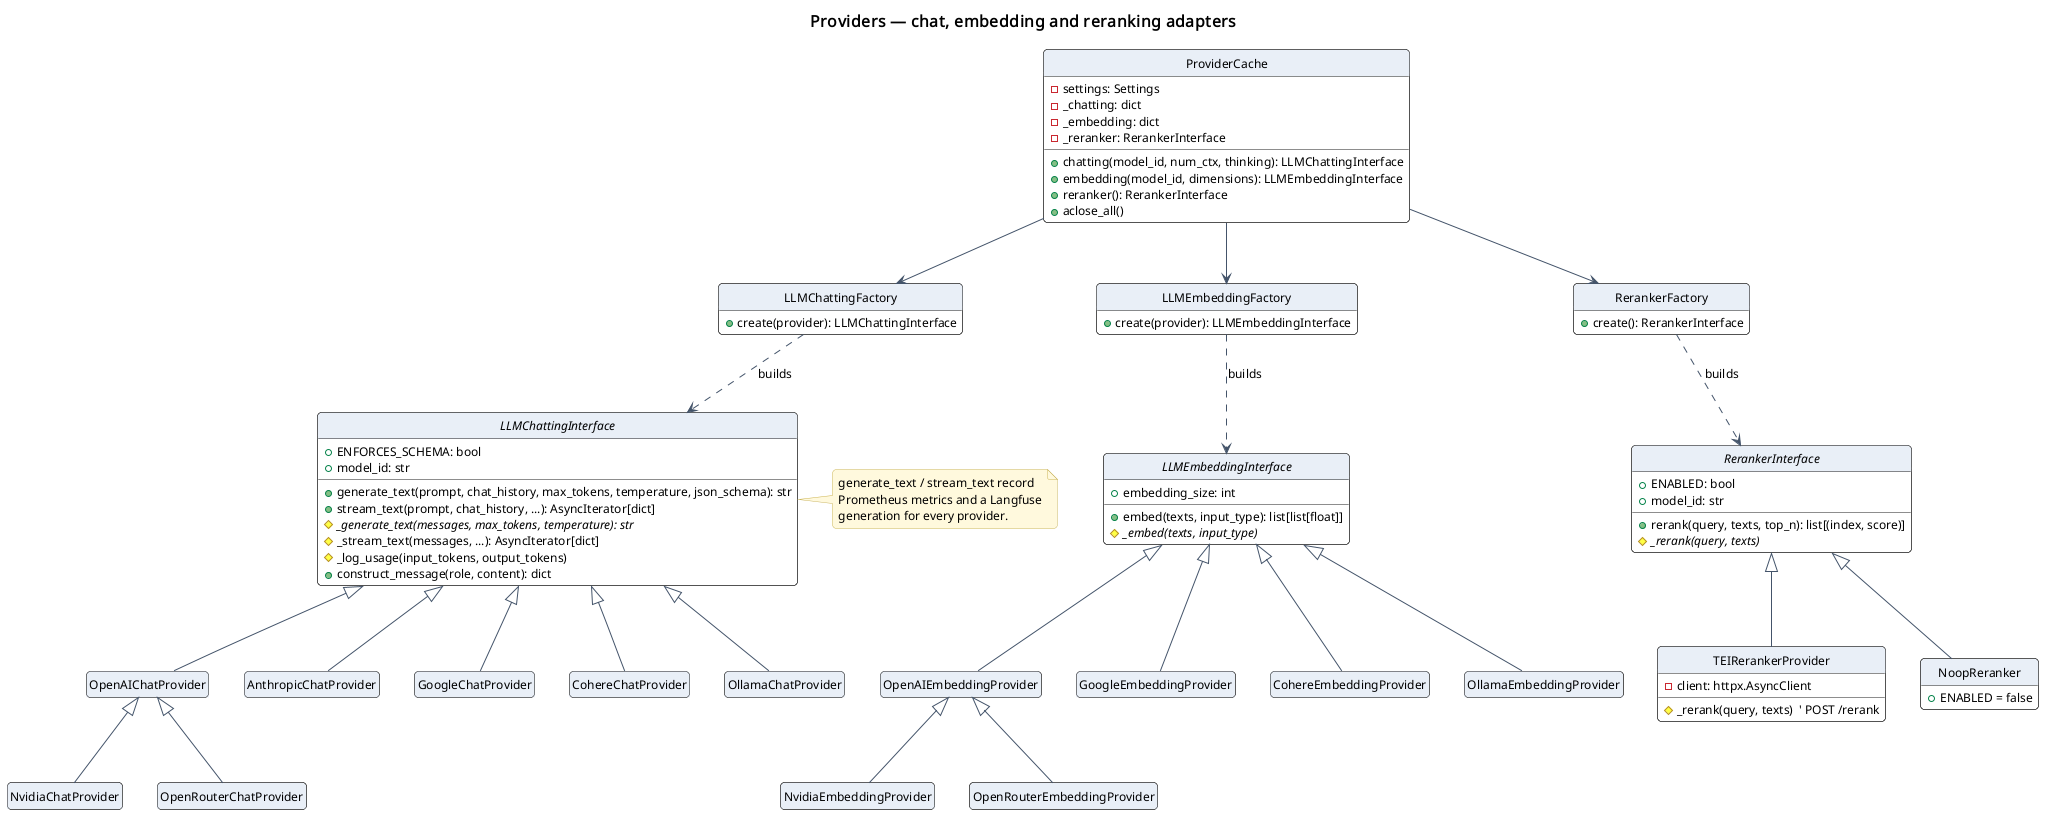
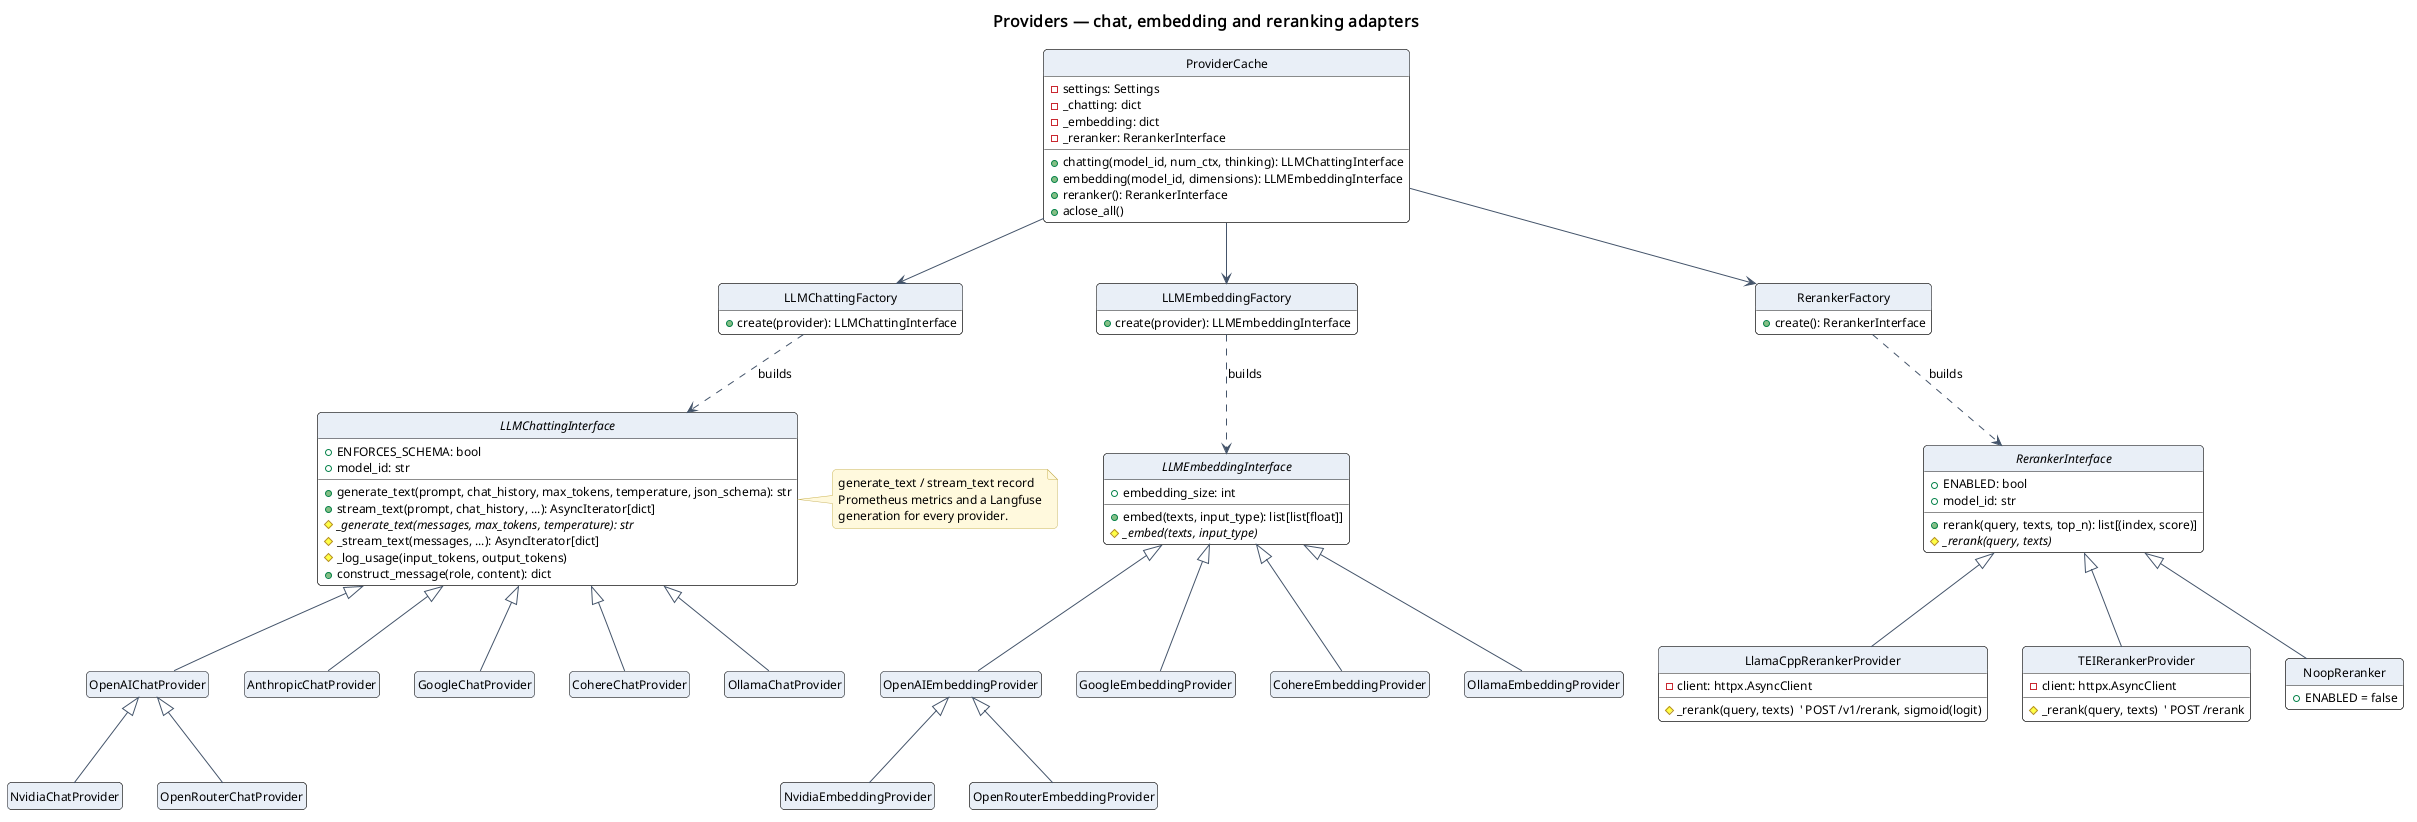
Serve the reranker with llama.cpp instead of TEI
TEI's CPU backend could not load bge-reranker-v2-m3 in a reasonable
footprint: 19 GB with default settings, and still OOM-killed at 4 GB and
6 GB. The `reranker` service now runs llama.cpp's llama-server
(server-b11749) with gpustack's Q8_0 GGUF of the same model (~640 MB) and
`--reranking --embedding --pooling rank`, capped at 2 GB.

LlamaCppRerankerProvider calls the Jina-style POST /v1/rerank and puts the
raw logits through a sigmoid, so RERANK_MIN_SCORE keeps its 0..1 meaning.
It is the new default (RERANKER_PROVIDER=llamacpp, RERANKER_URL
http://reranker:8080). TEIRerankerProvider stays available as
RERANKER_PROVIDER=tei. Ollama 0.21 has no rerank endpoint, so it could not
serve a cross-encoder.

Also sets [tool.uv] python-preference = "managed" for this project. The
user-level "only-managed" made every `uv run` discard .venv, which is built
on the uv-managed Python kept on this drive, and rebuild it on the copy
in ~/.local.

diff --git a/tests/chatting/test_rerank.py b/tests/chatting/test_rerank.py
@@ -6,6 +6,7 @@ import httpx
 import pytest
 
 from application.providers.reranking import (
+    LlamaCppRerankerProvider,
     NoopReranker,
     RerankerFactory,
     RerankerInterface,
@@ -182,10 +183,86 @@ def test_factory_builds_noop_when_disabled(settings):
     assert isinstance(RerankerFactory(settings).create(), NoopReranker)
 
 
-def test_factory_builds_tei_when_enabled(monkeypatch):
+def test_factory_builds_llamacpp_by_default_when_enabled(monkeypatch):
     from shared.utils import get_settings
 
     monkeypatch.setenv("RERANKER_ENABLED", "true")
     get_settings.cache_clear()
 
+    assert isinstance(RerankerFactory(get_settings()).create(), LlamaCppRerankerProvider)
+
+
+def test_factory_still_builds_tei_on_request(monkeypatch):
+    from shared.utils import get_settings
+
+    monkeypatch.setenv("RERANKER_ENABLED", "true")
+    monkeypatch.setenv("RERANKER_PROVIDER", "tei")
+    get_settings.cache_clear()
+
     assert isinstance(RerankerFactory(get_settings()).create(), TEIRerankerProvider)
+
+
+def test_factory_rejects_an_unknown_provider(monkeypatch):
+    from shared.exceptions import UnsupportedProviderError
+    from shared.utils import get_settings
+
+    monkeypatch.setenv("RERANKER_ENABLED", "true")
+    monkeypatch.setenv("RERANKER_PROVIDER", "nonsense")
+    get_settings.cache_clear()
+
+    with pytest.raises(UnsupportedProviderError):
+        RerankerFactory(get_settings()).create()
+
+
+# --- llama.cpp ---------------------------------------------------------------------
+
+
+def llama_provider(handler):
+    provider = LlamaCppRerankerProvider(base_url="http://reranker:8080", model_id="m")
+    provider.client = httpx.AsyncClient(base_url="http://reranker:8080", transport=httpx.MockTransport(handler))
+    return provider
+
+
+async def test_llamacpp_posts_jina_style_and_squashes_logits():
+    import json
+
+    seen = {}
+
+    def handler(request: httpx.Request):
+        seen["path"] = request.url.path
+        seen["body"] = json.loads(request.content)
+        # llama-server returns raw logits, sorted, under "results".
+        return httpx.Response(
+            200,
+            json={"results": [{"index": 1, "relevance_score": 4.2}, {"index": 0, "relevance_score": -3.0}]},
+        )
+
+    ranked = await llama_provider(handler).rerank("query", ["a", "b"])
+
+    assert seen["path"] == "/v1/rerank"
+    assert seen["body"]["query"] == "query"
+    assert seen["body"]["documents"] == ["a", "b"]
+    assert seen["body"]["top_n"] == 2
+    assert [i for i, _ in ranked] == [1, 0]
+    # Sigmoid: a 0..1 relevance, so RERANK_MIN_SCORE means the same on every backend.
+    assert 0.98 < ranked[0][1] < 0.99
+    assert 0.04 < ranked[1][1] < 0.05
+
+
+async def test_llamacpp_survives_extreme_logits():
+    def handler(request):
+        return httpx.Response(200, json={"results": [{"index": 0, "relevance_score": -5000.0}]})
+
+    ((index, score),) = await llama_provider(handler).rerank("q", ["a"])
+
+    assert index == 0 and score == 0.0
+
+
+async def test_llamacpp_http_failure_is_a_provider_error():
+    with pytest.raises(LLMProviderError):
+        await llama_provider(lambda r: httpx.Response(500)).rerank("q", ["a"])
+
+
+async def test_llamacpp_unexpected_body_is_a_provider_error():
+    with pytest.raises(LLMProviderError):
+        await llama_provider(lambda r: httpx.Response(200, json={"oops": True})).rerank("q", ["a"])

diff --git a/src/application/providers/reranking/LlamaCppRerankerProvider.py b/src/application/providers/reranking/LlamaCppRerankerProvider.py
@@ -1,0 +1,62 @@
+"""bge-reranker-v2-m3 as a quantized GGUF, behind llama.cpp's llama-server.
+
+The default reranker backend. ``llama-server --reranking`` (the `reranker`
+service in Docker/docker-compose.yml) serves the same cross-encoder TEI did,
+but quantized to Q8_0: a ~640 MB file and about 1 GB of RAM, where TEI's CPU
+backend needed 6-19 GB to load the fp32 weights and starved the host.
+
+The endpoint is Jina-style: ``POST /v1/rerank`` with a query and documents,
+answering ``{"results": [{"index", "relevance_score"}]}``. llama-server returns
+the model's raw logit as the score (``embd[0]`` in tools/server), so it is put
+through a sigmoid here: RERANK_MIN_SCORE then means the same 0..1 relevance
+whichever backend is running.
+"""
+
+import math
+
+import httpx
+
+from shared.exceptions import LLMProviderError
+
+from .RerankerInterface import RerankerInterface
+
+
+def _sigmoid(x: float) -> float:
+    # Split by sign so a large negative logit cannot overflow exp().
+    if x >= 0:
+        return 1.0 / (1.0 + math.exp(-x))
+    z = math.exp(x)
+    return z / (1.0 + z)
+
+
+class LlamaCppRerankerProvider(RerankerInterface):
+    def __init__(self, base_url: str, model_id: str, timeout: float = 10.0) -> None:
+        super().__init__(model_id=model_id)
+        self.client = httpx.AsyncClient(base_url=base_url.rstrip("/"), timeout=timeout)
+
+    async def _rerank(self, query: str, texts: list[str]) -> list[tuple[int, float]]:
+        try:
+            response = await self.client.post(
+                "/v1/rerank",
+                json={
+                    # Informational only: llama-server serves the one model it
+                    # was started with.
+                    "model": self.model_id,
+                    "query": query,
+                    "documents": texts,
+                    "top_n": len(texts),
+                },
+            )
+            response.raise_for_status()
+        except httpx.HTTPError as exc:
+            raise LLMProviderError(f"Reranker request failed: {exc}") from exc
+
+        try:
+            return [
+                (int(item["index"]), _sigmoid(float(item["relevance_score"]))) for item in response.json()["results"]
+            ]
+        except (ValueError, KeyError, TypeError) as exc:
+            raise LLMProviderError(f"Reranker returned an unexpected body: {response.text[:200]}") from exc
+
+    async def aclose(self) -> None:
+        await self.client.aclose()

diff --git a/src/application/providers/reranking/RerankerFactory.py b/src/application/providers/reranking/RerankerFactory.py
@@ -1,6 +1,7 @@
 from shared.exceptions import UnsupportedProviderError
 from shared.utils import Settings
 
+from .LlamaCppRerankerProvider import LlamaCppRerankerProvider
 from .RerankerInterface import NoopReranker, RerankerInterface
 from .TEIRerankerProvider import TEIRerankerProvider
 
@@ -8,7 +9,9 @@ from .TEIRerankerProvider import TEIRerankerProvider
 class RerankerFactory:
     """Builds the reranker RERANKER_PROVIDER names, or the pass-through."""
 
-    _PROVIDERS = {"tei"}
+    # llamacpp: llama-server with a GGUF build (the compose default, ~1 GB RAM).
+    # tei: Hugging Face text-embeddings-inference, if you run one yourself.
+    _PROVIDERS = {"llamacpp": LlamaCppRerankerProvider, "tei": TEIRerankerProvider}
 
     def __init__(self, settings: Settings) -> None:
         self.settings = settings
@@ -19,8 +22,9 @@ class RerankerFactory:
 
         provider = self.settings.RERANKER_PROVIDER.strip().lower()
 
-        if provider == "tei":
-            return TEIRerankerProvider(
+        cls = self._PROVIDERS.get(provider)
+        if cls is not None:
+            return cls(
                 base_url=self.settings.RERANKER_URL,
                 model_id=self.settings.RERANKER_MODEL_ID,
                 timeout=self.settings.RERANKER_TIMEOUT_S,

diff --git a/src/shared/utils/config.py b/src/shared/utils/config.py
@@ -457,12 +457,14 @@ class Settings(BaseSettings):
 
     # --- reranking -----------------------------------------------------------
     # A cross-encoder re-scores the vector hits before the best top_k reach the
-    # prompt. Served by the `reranker` container (Hugging Face TEI running
-    # BAAI/bge-reranker-v2-m3, multilingual, so Arabic passages score properly).
+    # prompt. Served by the `reranker` container: llama.cpp's llama-server with
+    # a Q8_0 GGUF of BAAI/bge-reranker-v2-m3 (multilingual, so Arabic passages
+    # score properly; ~1 GB RAM). RERANKER_PROVIDER=tei targets a Hugging Face
+    # text-embeddings-inference server instead.
     # Off builds a pass-through, and retrieval behaves exactly as before.
     RERANKER_ENABLED: bool = False
-    RERANKER_PROVIDER: str = "tei"
-    RERANKER_URL: str = "http://reranker:80"
+    RERANKER_PROVIDER: str = "llamacpp"
+    RERANKER_URL: str = "http://reranker:8080"
     RERANKER_MODEL_ID: str = "BAAI/bge-reranker-v2-m3"
     # A rerank that takes longer than this is abandoned and the hits keep
     # their vector order: a slow reranker must not stall the answer.

diff --git a/src/application/providers/reranking/TEIRerankerProvider.py b/src/application/providers/reranking/TEIRerankerProvider.py
@@ -1,9 +1,9 @@
-"""bge-reranker-v2-m3 (or any cross-encoder) behind Hugging Face TEI.
+"""A cross-encoder behind Hugging Face text-embeddings-inference (TEI).
 
-text-embeddings-inference runs the model in its own container (the `reranker`
-service in Docker/docker-compose.yml) and serves ``POST /rerank``. That keeps
-torch and the model weights out of the application image: the app sends text
-over HTTP and gets scores back.
+RERANKER_PROVIDER=tei. Not what compose runs: TEI's CPU backend needed 6-19 GB
+to load bge-reranker-v2-m3, so the `reranker` service is llama.cpp instead
+(LlamaCppRerankerProvider). Kept for a GPU box with TEI already running, where
+its ``POST /rerank`` serves the same model well.
 
 bge-reranker-v2-m3 is multilingual, which matters here: most of this corpus is
 Arabic, and an English-only cross-encoder would score every Arabic passage as

diff --git a/src/application/providers/reranking/__init__.py b/src/application/providers/reranking/__init__.py
@@ -1,8 +1,10 @@
+from .LlamaCppRerankerProvider import LlamaCppRerankerProvider
 from .RerankerFactory import RerankerFactory
 from .RerankerInterface import NoopReranker, RerankerInterface
 from .TEIRerankerProvider import TEIRerankerProvider
 
 __all__ = [
+    "LlamaCppRerankerProvider",
     "NoopReranker",
     "RerankerFactory",
     "RerankerInterface",

diff --git a/README.md b/README.md
@@ -249,7 +249,7 @@ approximate rather than silently pointing at the wrong sentence.
 - Generation can be stopped mid-answer, and the partial reply is kept
 - `/memory I prefer short answers` stores a durable fact about the user, extracted on a worker and folded into every later answer
 - **Agentic answering:** every grounded question is planned first. One structured call classifies it (chit-chat, simple, complex), rewrites it to stand alone without the chat history, and lists the retrieval queries. A complex question is researched part by part: each part is retrieved, reranked and answered with its own citations in parallel, then one streamed answer combines the parts with the original question. The UI ticks the parts off as they finish (`AGENTIC_RAG_ENABLED`)
-- **Reranking:** vector search fetches a wider pool (`RERANK_CANDIDATES`), and a multilingual cross-encoder (`BAAI/bge-reranker-v2-m3`, served by text-embeddings-inference in the `reranker` container) keeps the best `top_k`. A failed or slow rerank falls back to vector order
+- **Reranking:** vector search fetches a wider pool (`RERANK_CANDIDATES`), and a multilingual cross-encoder (`BAAI/bge-reranker-v2-m3`, as a quantized GGUF served by llama.cpp's `llama-server` in the `reranker` container, about 1 GB of RAM) keeps the best `top_k`. A failed or slow rerank falls back to vector order
 - **Guardrails:** a guard model checks the question before the answer model sees it (`InputGuardrail.abefore_model`), and checks the answer passage by passage as it streams (`OutputGuardrail.aafter_model`). Both are LangChain `AgentMiddleware`. Each stage has its own Celery queue, worker and model. Checks are micro-batched: a batch goes when `GUARDRAIL_BATCH_SIZE` checks are waiting or `GUARDRAIL_BATCH_MAX_WAIT_S` has passed, whichever comes first
 
 **Studio**

diff --git a/Docker/README.md b/Docker/README.md
@@ -39,7 +39,7 @@ Then:
 | Grafana | http://localhost:3000 — `admin` / `admin` on first boot |
 | Prometheus | http://localhost:9090 — check `/targets` first |
 | Langfuse | http://localhost:3001 — profile `langfuse`, see [Observability](#observability) |
-| Reranker | http://localhost:8082 — TEI serving `BAAI/bge-reranker-v2-m3`; the first start downloads ~2 GB of weights |
+| Reranker | http://localhost:8082 — llama.cpp `llama-server` with `bge-reranker-v2-m3` (Q8_0 GGUF, ~640 MB downloaded on first start, ~1 GB RAM) |
 
 `docker compose down` stops it; `docker compose down -v` also destroys the databases.
 
